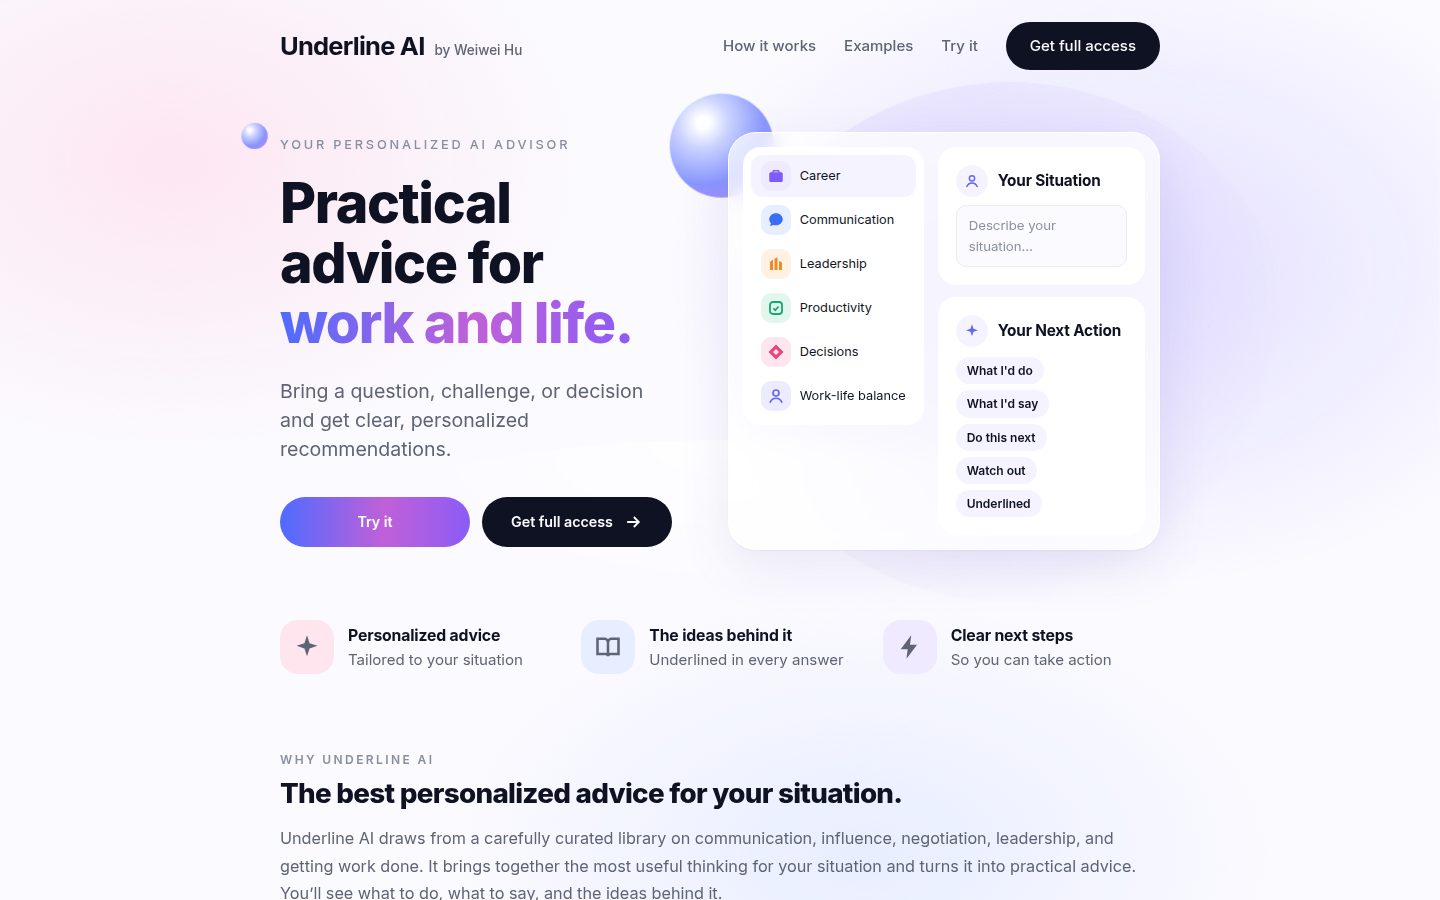
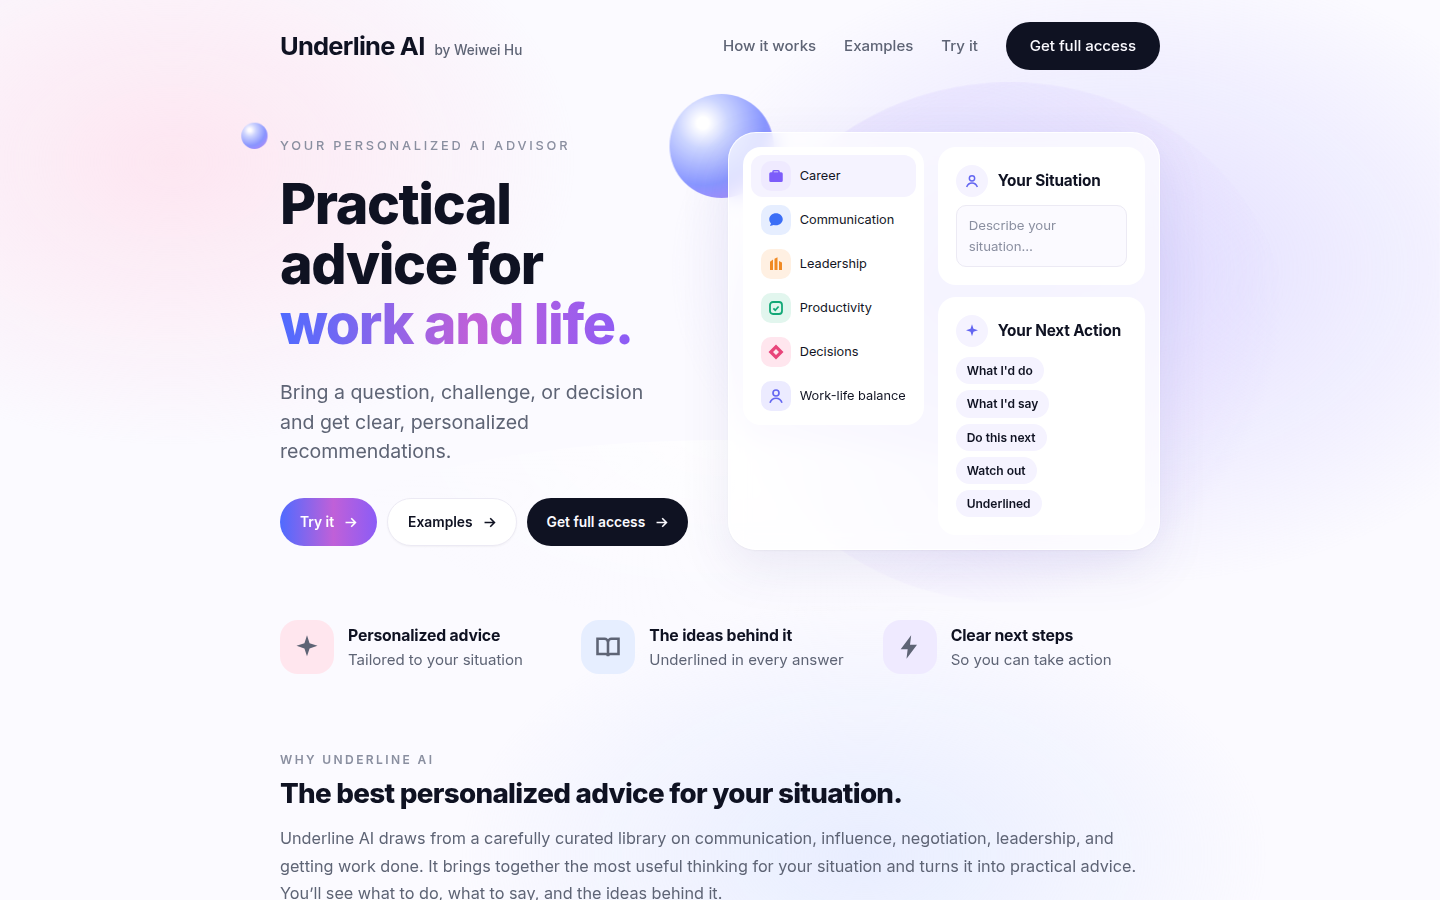
Hero: Try it, Examples, Get full access on one line with arrows; remove 'Samples are free.'
Claude-Session: https://claude.ai/code/session_01N7N6w9NyR9iyFeuC71Pzud

diff --git a/index.html b/index.html
@@ -284,6 +284,11 @@ html{overflow-x:hidden}
 .trybtn:hover{filter:brightness(1.08)}
 .hero .ctas .btn.big{min-width:0;flex:0 0 190px;width:190px!important;white-space:nowrap}
 .hero .ctas{flex-wrap:nowrap;gap:12px}
+/* Hero: three smaller buttons on one line, each with the arrow */
+.hero .ctas{gap:10px}
+.hero .ctas .btn.big{flex:0 0 auto;width:auto!important;padding:12px 18px 12px 20px!important;font-size:.92rem!important;gap:8px}
+.hero .ctas .btn svg{width:17px;height:17px}
+.btn.line{background:var(--card);color:var(--ink);border:1px solid var(--line)!important;box-shadow:0 1px 2px rgba(15,18,34,.04)}
 @media (max-width:520px){.hero .ctas{flex-direction:column}.hero .ctas .btn.big{width:100%!important;flex:0 0 auto}}
 </style>
 
@@ -306,7 +311,8 @@ html{overflow-x:hidden}
       <h1>Practical advice for <span class="grad">work and life.</span></h1>
       <p class="lead">Bring a question, challenge, or decision and get clear, personalized recommendations.</p>
       <div class="ctas">
-        <a class="btn big trybtn" id="heroTry" href="#try">Try it</a>
+        <a class="btn big trybtn" id="heroTry" href="#try">Try it <svg viewBox="0 0 24 24" width="20" height="20" fill="none" stroke="currentColor" stroke-width="2.2" aria-hidden="true"><path d="M5 12h14M13 6l6 6-6 6"/></svg></a>
+        <a class="btn big line" href="#try">Examples <svg viewBox="0 0 24 24" width="20" height="20" fill="none" stroke="currentColor" stroke-width="2.2" aria-hidden="true"><path d="M5 12h14M13 6l6 6-6 6"/></svg></a>
         <a class="btn big dark" href="https://buy.stripe.com/cNi14nfzP6RKfkX9F2eQM00" target="_blank" rel="noopener">Get full access <svg viewBox="0 0 24 24" width="20" height="20" fill="none" stroke="currentColor" stroke-width="2.2" aria-hidden="true"><path d="M5 12h14M13 6l6 6-6 6"/></svg></a>
       </div>
     </div>
@@ -365,7 +371,6 @@ html{overflow-x:hidden}
           <label class="fld"><span>What do you want to happen?</span><input id="tGoal" type="text" readonly placeholder=""></label>
           <label class="fld"><span>Anything else that matters? <small>(optional)</small></span><textarea id="tCtx" rows="2" readonly placeholder=""></textarea></label>
           <button class="btn big dark trygo" type="submit">See the answer</button>
-          <p class="trynote" id="tryNote">Samples are free.</p>
         </form>
       </div>
       <div class="panel full" id="tryOut" aria-live="polite" hidden></div>
